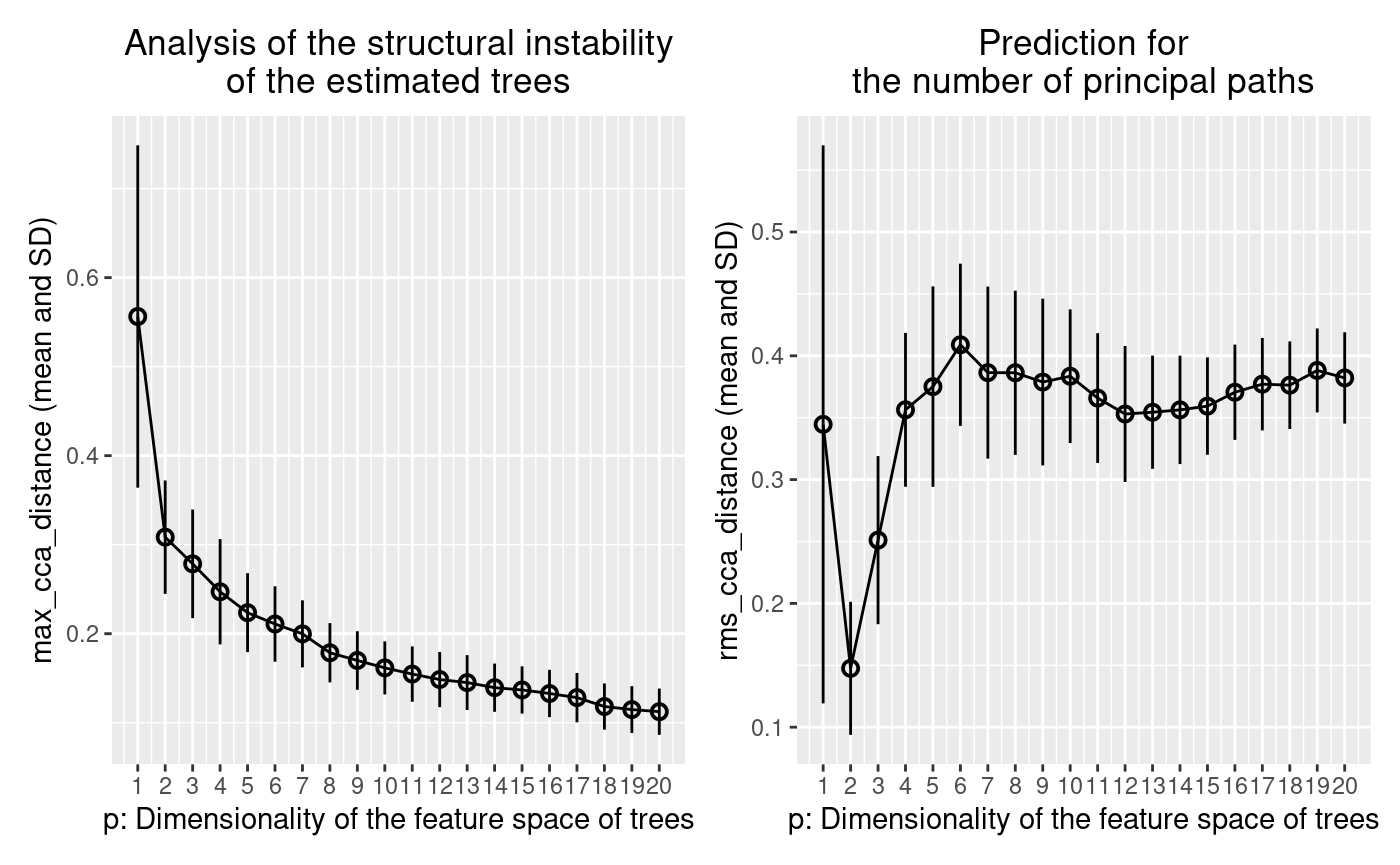
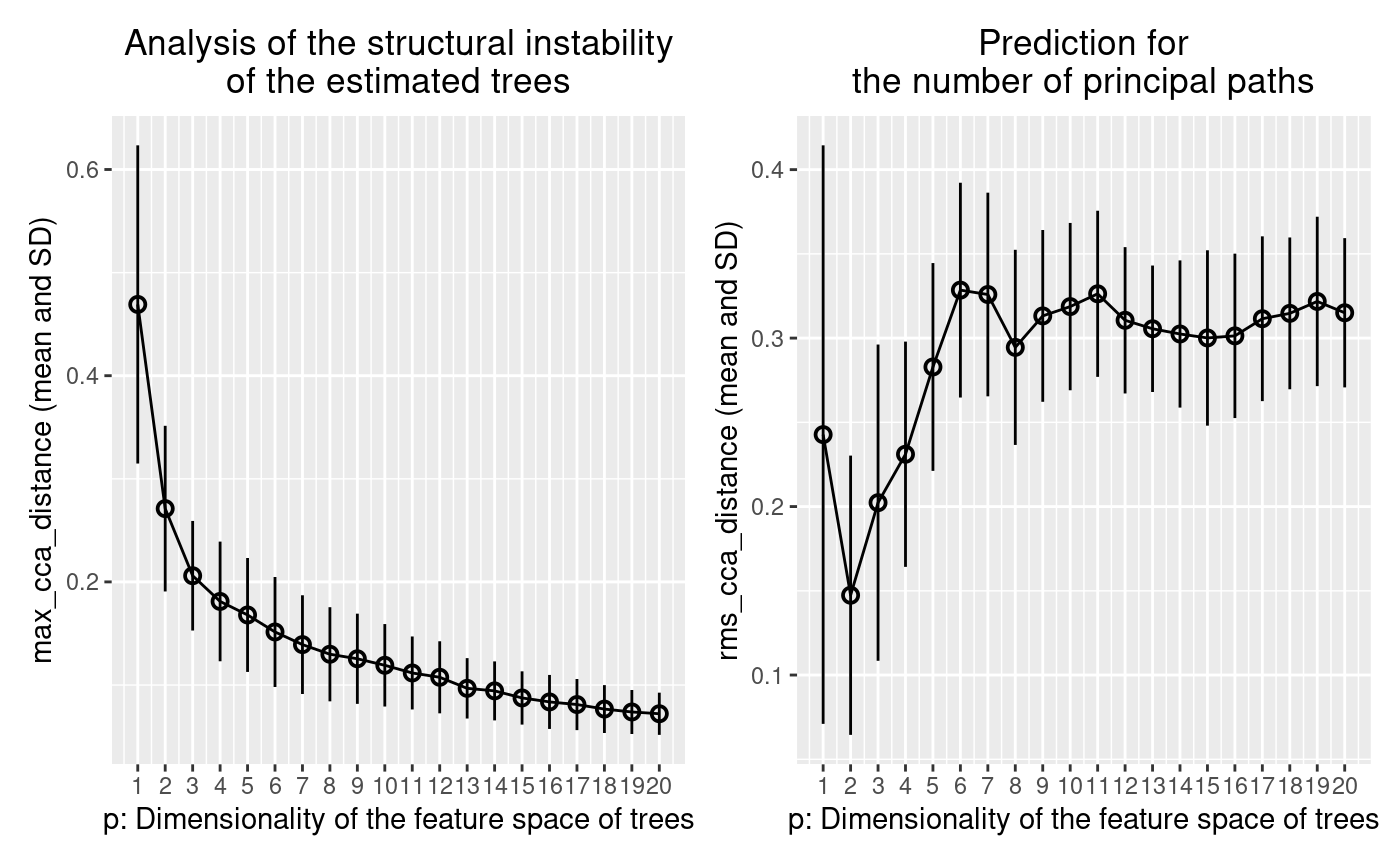
Update documents

diff --git a/docs/1.0.0/articles/working-with-seurat.html b/docs/1.0.0/articles/working-with-seurat.html
@@ -103,11 +103,167 @@
 
     
     
-
+<p>This is a user-friendly manual for biologists who are interested in performing quantitative trajectory inference with the Treefit package. If you are not familiar with the basic workflow of Treefit, then it would be a good idea to look at the introductory tutorial (<code><a href="../articles/treefit.html">vignette("treefit")</a></code>) before using it.</p>
+<div id="why-quantitative-trajectory-inference" class="section level2">
+<h2 class="hasAnchor">
+<a href="#why-quantitative-trajectory-inference" class="anchor"></a>1. Why “quantitative” trajectory inference?</h2>
+<p>Single-cell technologies are expected to help us discover a novel type of cells and revolutionize our understanding of the process of cell differentiation, and trajectory inference is one of the key computational challenges in single-cell transcriptomics. In recent years, many software packages have been developed and widely used to extract an underlying “tree” trajectory from single-cell RNA-seq data.</p>
+<p>However, trajectory inference often suffers from the uncertainty due to the heterogeneity of individual cells and the high levels of technical noise in single-cell experiments. Hence, it was a fatal problem that there was no method to quantitatively assess the reliability of the estimated trajectory and to distinguish distinct cell types in an objective manner so far. Of course, many handy software packages are available for visualizing data and helping perform exploratory data analysis; however, we must stress that different visualization techniques often result in completely different pictures and the interpretation can be quite subjective and thus it is hard to reach a scientific truth solely by this approach. In order to facilitate scientific discoveries from single-cell gene expression data, we need a <em>quantitative</em> methodology.</p>
+<p>This is why we developed Treefit - the first software for performing <em>quantitative</em> trajectory inference. Treefit can be used in conjunction with existing popular software packages such as <a href="https://satijalab.org/seurat/">Seurat</a> and <a href="https://dynverse.org/">dynverse</a>. In this tutorial, we demonstrate how to use Treefit together with Seurat by analyzing the single-cell RNA-seq dataset in <a href="https://www.nature.com/articles/nbt.2859">Trapnell <i>el al.</i>, 2014, Nature Biotechnology</a>.</p>
+</div>
+<div id="trajectory-inference-using-treefit-and-seurat" class="section level2">
+<h2 class="hasAnchor">
+<a href="#trajectory-inference-using-treefit-and-seurat" class="anchor"></a>2. Trajectory inference using Treefit and Seurat</h2>
+<p>As the Treefit package is meant to be used with gene expression data (either raw counts or normalized values) that have been already quality controlled, it is a good idea to use Seurat or other popular toolkits designed for the quality control of single-cell gene expression data (<i>e.g.</i>, filtering cells and normalizing the data) before the Treefit analysis.</p>
+<div id="loading-the-dataset" class="section level3">
+<h3 class="hasAnchor">
+<a href="#loading-the-dataset" class="anchor"></a>2.1. Loading the dataset</h3>
+<p>We analyze the dataset provided in <a href="https://www.nature.com/articles/nbt.2859">Trapnell <i>el al.</i>, 2014, Nature Biotechnology</a>. This dataset was originally acquired for the purpose of studying the process of differentiation of human myoblasts that can be reasonably explained by the linear model (<i>i.e.</i>, non-branching, chain-like structure). However, as the authors discuss in detail in the original article, their trajectory inference software based on a minimum spanning tree (MST) helped detect contamination with another cell lineage which was not related to myogenesis and so revealed that the bifurcation tree model (<i>i.e.</i>, Y-shaped tree structure) fits the data better than the linear model.</p>
+<p>To use this dataset, we download and read the dataset provided in dynverse as follows (see <a href="https://zenodo.org/record/1443566" class="uri">https://zenodo.org/record/1443566</a> for details).</p>
+<div class="sourceCode" id="cb1"><pre class="sourceCode r"><code class="sourceCode r"><a class="sourceLine" id="cb1-1" title="1">trapnell.path &lt;-<span class="st"> "myoblast-differentiation_trapnell.rds"</span></a>
+<a class="sourceLine" id="cb1-2" title="2"><span class="cf">if</span> (<span class="op">!</span><span class="kw"><a href="https://rdrr.io/r/base/files.html">file.exists</a></span>(trapnell.path)) {</a>
+<a class="sourceLine" id="cb1-3" title="3">  <span class="kw"><a href="https://rdrr.io/r/utils/download.file.html">download.file</a></span>(<span class="st">"https://zenodo.org/record/1443566/files/real/gold/myoblast-differentiation_trapnell.rds?download=1"</span>,</a>
+<a class="sourceLine" id="cb1-4" title="4">                trapnell.path,</a>
+<a class="sourceLine" id="cb1-5" title="5">                <span class="dt">mode=</span><span class="st">"wb"</span>)</a>
+<a class="sourceLine" id="cb1-6" title="6">}</a>
+<a class="sourceLine" id="cb1-7" title="7">trapnell.dynverse &lt;-<span class="st"> </span><span class="kw"><a href="https://rdrr.io/r/base/readRDS.html">readRDS</a></span>(trapnell.path)</a></code></pre></div>
+</div>
+<div id="preprocessing-with-seurat" class="section level3">
+<h3 class="hasAnchor">
+<a href="#preprocessing-with-seurat" class="anchor"></a>2.2. Preprocessing with Seurat</h3>
+<p>From now, we demonstrate how to preprocess the above data with Seurat. In order to handle data in Seurat, we first need to create a <code>Seurat</code> object. When creating a <code>Seurat</code> object from dynverse data, we must be aware that the roles of the rows and columns are reversed and therefore we need to transpose the matrix. In dynverse data, the rows and columns correspond to cells and genes, respectively, and vice versa in <code>Seurat</code> objects.</p>
+<p>Here we assume that we wish to perform the following preprocessing.</p>
+<ul>
+<li>Excluding each gene that is only expressed in less than 3 cells</li>
+<li>Removing each cell that only expresses less than 200 genes</li>
+</ul>
+<p>This can be done by setting the designated parameters as follows.</p>
+<div class="sourceCode" id="cb2"><pre class="sourceCode r"><code class="sourceCode r"><a class="sourceLine" id="cb2-1" title="1">trapnell &lt;-<span class="st"> </span>Seurat<span class="op">::</span><span class="kw"><a href="https://rdrr.io/pkg/Seurat/man/CreateSeuratObject.html">CreateSeuratObject</a></span>(<span class="dt">counts=</span><span class="kw"><a href="https://rdrr.io/r/base/t.html">t</a></span>(trapnell.dynverse<span class="op">$</span>count),</a>
+<a class="sourceLine" id="cb2-2" title="2">                                       <span class="dt">min.cells=</span><span class="dv">3</span>,</a>
+<a class="sourceLine" id="cb2-3" title="3">                                       <span class="dt">min.features=</span><span class="dv">200</span>)</a></code></pre></div>
+<pre><code>## Warning: Feature names cannot have underscores ('_'), replacing with dashes
+## ('-')</code></pre>
+<p>The “Feature names cannot have underscores …” warning message can be ignored. It’s caused by difference between dynverse and Seurat. Dynverse uses underscores for gene names but Seurat doesn’t allow it. Seurat replaces underscores with dashes automatically with the warning message.</p>
+</div>
+<div id="visualization-with-seurat" class="section level3">
+<h3 class="hasAnchor">
+<a href="#visualization-with-seurat" class="anchor"></a>2.3. Visualization with Seurat</h3>
+<p>Although pictures may not always describe reality, we usually visualize data before starting detailed analysis. Here we create a scatter plot by principal component analysis (PCA). Below are a few lines of code to do this and the result is shown in Figure 1.</p>
+<div class="sourceCode" id="cb4"><pre class="sourceCode r"><code class="sourceCode r"><a class="sourceLine" id="cb4-1" title="1">trapnell &lt;-<span class="st"> </span>Seurat<span class="op">::</span><span class="kw"><a href="https://rdrr.io/pkg/Seurat/man/FindVariableFeatures.html">FindVariableFeatures</a></span>(trapnell, <span class="dt">verbose=</span><span class="ot">FALSE</span>)</a>
+<a class="sourceLine" id="cb4-2" title="2">trapnell &lt;-<span class="st"> </span>Seurat<span class="op">::</span><span class="kw"><a href="https://rdrr.io/pkg/Seurat/man/ScaleData.html">ScaleData</a></span>(trapnell, <span class="dt">verbose=</span><span class="ot">FALSE</span>)</a>
+<a class="sourceLine" id="cb4-3" title="3">trapnell &lt;-<span class="st"> </span>Seurat<span class="op">::</span><span class="kw"><a href="https://rdrr.io/pkg/Seurat/man/RunPCA.html">RunPCA</a></span>(trapnell, <span class="dt">verbose=</span><span class="ot">FALSE</span>)</a>
+<a class="sourceLine" id="cb4-4" title="4"><span class="kw"><a href="https://rdrr.io/r/graphics/plot.html">plot</a></span>(Seurat<span class="op">::</span><span class="kw"><a href="https://rdrr.io/pkg/Seurat/man/Embeddings.html">Embeddings</a></span>(trapnell))</a></code></pre></div>
+<div class="figure">
+<img src="working-with-seurat_files/figure-html/visualization-1.png" alt="Figure 1. The result of PCA for the myoblast dataset" width="700"><p class="caption">
+Figure 1. The result of PCA for the myoblast dataset
+</p>
+</div>
+<p>It is hard to reach the truth from the PCA result shown in Figure 1. Unlike the tree-like toy data analyzed in the previous tutorial (<code><a href="../articles/treefit.html">vignette("treefit")</a></code>), we cannot easily recognize the underlying tree structure for various reasons (<i>e.g.</i>, high level of noise, contamination with different types of cells, and the inaccuracy of two-dimensional visualization of high dimensional data).</p>
+<p>Figure 2b in <a href="https://www.nature.com/articles/nbt.2859">Trapnell <i>el al.</i>, 2014, Nature Biotechnology</a> shows that this dataset contains three distinct types of cells (<i>i.e.</i>, proliferating cells, differentiating myoblasts, and contaminating interstitial mesenchymal cells), which led the authors to adopt a Y-shaped tree model (<i>i.e.</i>, a star tree with three arms) to explain the data. However, it is difficult to quantify the reliability of this tree model and to confidently predict that the best-fit tree consists of three principal paths.</p>
+</div>
+</div>
+<div id="quantitative-trajectory-inference-with-treefit" class="section level2">
+<h2 class="hasAnchor">
+<a href="#quantitative-trajectory-inference-with-treefit" class="anchor"></a>3. Quantitative trajectory inference with Treefit</h2>
+<div id="performing-the-treefit-analysis" class="section level3">
+<h3 class="hasAnchor">
+<a href="#performing-the-treefit-analysis" class="anchor"></a>3.1. Performing the Treefit analysis</h3>
+<p>Let us use Treefit in order to estimate the tree-likeness of the preprocessed myoblast data (which contain 290 cells) and to predict the number of principal paths in the best-fit tree. The workflow is the same as the toy data analysis described in the previous tutorial (<code><a href="../articles/treefit.html">vignette("treefit")</a></code>).</p>
+<div class="sourceCode" id="cb5"><pre class="sourceCode r"><code class="sourceCode r"><a class="sourceLine" id="cb5-1" title="1">trapnell.fit &lt;-<span class="st"> </span>treefit<span class="op">::</span><span class="kw"><a href="https://rdrr.io/pkg/treefit/man/treefit.html">treefit</a></span>(trapnell)</a>
+<a class="sourceLine" id="cb5-2" title="2">trapnell.fit</a></code></pre></div>
+<pre><code>## $name
+## [1] "trapnell"
+## 
+## $max_cca_distance
+##     p      mean standard_deviation
+## 1   1 0.6303459         0.12773201
+## 2   2 0.4017539         0.07430735
+## 3   3 0.3255355         0.05479342
+## 4   4 0.2699334         0.04228203
+## 5   5 0.2500198         0.04335692
+## 6   6 0.2348225         0.03919659
+## 7   7 0.2269746         0.03631043
+## 8   8 0.2185274         0.03309986
+## 9   9 0.2096228         0.03344765
+## 10 10 0.2022596         0.03228294
+## 11 11 0.1928535         0.03540076
+## 12 12 0.1878315         0.03622790
+## 13 13 0.1811885         0.03879294
+## 14 14 0.1725552         0.03903983
+## 15 15 0.1501188         0.03806641
+## 16 16 0.1423743         0.03696181
+## 17 17 0.1332141         0.03425474
+## 18 18 0.1301240         0.03567304
+## 19 19 0.1261766         0.03589544
+## 20 20 0.1229404         0.03627929
+## 
+## $rms_cca_distance
+##     p      mean standard_deviation
+## 1   1 0.4128356         0.16762578
+## 2   2 0.2743234         0.07251555
+## 3   3 0.3849682         0.07709205
+## 4   4 0.4149403         0.08252252
+## 5   5 0.4310958         0.06496787
+## 6   6 0.3586742         0.07095145
+## 7   7 0.3380313         0.06377325
+## 8   8 0.3739542         0.05738832
+## 9   9 0.3735670         0.06623482
+## 10 10 0.3657720         0.05637900
+## 11 11 0.3632138         0.05275275
+## 12 12 0.3826324         0.04703776
+## 13 13 0.3896167         0.04848040
+## 14 14 0.3893737         0.04267768
+## 15 15 0.3940595         0.04583882
+## 16 16 0.3916372         0.04443135
+## 17 17 0.3991275         0.03560390
+## 18 18 0.4121476         0.03607119
+## 19 19 0.4139794         0.04205234
+## 20 20 0.4216135         0.03807688
+## 
+## $n_principal_paths_candidates
+## [1]  3  8 12 15 17
+## 
+## attr(,"class")
+## [1] "treefit"</code></pre>
+<div class="sourceCode" id="cb7"><pre class="sourceCode r"><code class="sourceCode r"><a class="sourceLine" id="cb7-1" title="1"><span class="kw"><a href="https://rdrr.io/r/graphics/plot.html">plot</a></span>(trapnell.fit)</a></code></pre></div>
+<div class="figure">
+<img src="working-with-seurat_files/figure-html/plot-1.png" alt="Figure 2. Summary of the Treefit analysis results" width="700"><p class="caption">
+Figure 2. Summary of the Treefit analysis results
+</p>
+</div>
+</div>
+<div id="interpreting-the-results" class="section level3">
+<h3 class="hasAnchor">
+<a href="#interpreting-the-results" class="anchor"></a>3.2. Interpreting the results</h3>
+<p>As explained in the previous tutorial (<code><a href="../articles/treefit.html">vignette("treefit")</a></code>), the two Grassmann distances <code>$max_cca_distance</code> and <code>$rms_cca_distance</code> play an essential role in the Treefit analysis. The goal of the first analysis using <code>$max_cca_distance</code> is to measure the goodness-of-fit between data and data-derived tree trajectories, and this helps biologists make a mathematical and statistical evidence-based quantitative discussion. The other analysis with <code>$rms_cca_distance</code> aims to predict the number of principal paths in the best-fit tree trajectory, and the result of this analysis can be helpful to discover novel cell types or make sure whether or not there are contaminating cell types.</p>
+<p>If we compare the mean values of <code>$max_cca_distance</code> shown in the left panel of Figure 2 with the previous results (<code><a href="../articles/treefit.html">vignette("treefit")</a></code>), we can see that the tree-likeness of the myoblast dataset is more like the noisy tree-like data with the <code>fatness</code> <code>0.8</code> rather than the tree-like data with the <code>fatness</code> <code>0.1</code>. This estimate is reasonable in light of the fact that the myoblast dataset in <a href="https://www.nature.com/articles/nbt.2859">Trapnell <i>el al.</i>, 2014, Nature Biotechnology</a> contains some contaminating cell types that are not related to myogenesis.</p>
+<p>Turning to the right panel of Figure 2, we see that <code>$rms_cca_distance</code> attains the local minimum at <i>p</i>=2. Therefore, we can deduce that the best-fit tree trajectory for the myoblast data consists of <i>p</i>+1=3 principal paths. <code>$n_principal_paths_candidates[1]</code> also tells us the number principal paths is 3. Recalling the discussion in <a href="https://www.nature.com/articles/nbt.2859">Trapnell <i>el al.</i>, 2014, Nature Biotechnology</a> (<i>i.e.</i>, the cells in the dataset can be classified into the following three groups: proliferating cells; differentiating myoblasts; and contaminating interstitial mesenchymal cells), we thus see that Treefit has correctly predicted the number of distinct principal paths forming the best-fit tree trajectory for this dataset.</p>
+</div>
+</div>
   </div>
 
   <div class="col-md-3 hidden-xs hidden-sm" id="sidebar">
 
+        <div id="tocnav">
+      <h2 class="hasAnchor">
+<a href="#tocnav" class="anchor"></a>Contents</h2>
+      <ul class="nav nav-pills nav-stacked">
+<li><a href="#why-quantitative-trajectory-inference">1. Why “quantitative” trajectory inference?</a></li>
+      <li>
+<a href="#trajectory-inference-using-treefit-and-seurat">2. Trajectory inference using Treefit and Seurat</a><ul class="nav nav-pills nav-stacked">
+<li><a href="#loading-the-dataset">2.1. Loading the dataset</a></li>
+      <li><a href="#preprocessing-with-seurat">2.2. Preprocessing with Seurat</a></li>
+      <li><a href="#visualization-with-seurat">2.3. Visualization with Seurat</a></li>
+      </ul>
+</li>
+      <li>
+<a href="#quantitative-trajectory-inference-with-treefit">3. Quantitative trajectory inference with Treefit</a><ul class="nav nav-pills nav-stacked">
+<li><a href="#performing-the-treefit-analysis">3.1. Performing the Treefit analysis</a></li>
+      <li><a href="#interpreting-the-results">3.2. Interpreting the results</a></li>
+      </ul>
+</li>
+      </ul>
+</div>
       </div>
 
 </div>

diff --git a/docs/1.0.0/articles/treefit.html b/docs/1.0.0/articles/treefit.html
@@ -154,52 +154,52 @@ Figure 2. A scatter plot of noisy toy data generated by Treefit
 ## 
 ## $max_cca_distance
 ##     p       mean standard_deviation
-## 1   1 0.55310272        0.266732277
-## 2   2 0.05988371        0.012647359
-## 3   3 0.05340750        0.008074329
-## 4   4 0.04804800        0.006003423
-## 5   5 0.04610268        0.006216889
-## 6   6 0.04384587        0.005553575
-## 7   7 0.04190644        0.005384856
-## 8   8 0.04068326        0.005648034
-## 9   9 0.03879281        0.006198876
-## 10 10 0.03718435        0.006207704
-## 11 11 0.03634225        0.005996107
-## 12 12 0.03491264        0.005612555
-## 13 13 0.03415235        0.005746931
-## 14 14 0.03330077        0.005848905
-## 15 15 0.03277826        0.005852345
-## 16 16 0.03225203        0.005706239
-## 17 17 0.03049023        0.005288260
-## 18 18 0.02960187        0.005425424
-## 19 19 0.02910825        0.005492155
-## 20 20 0.02804071        0.005362880
+## 1   1 0.22207774        0.132862158
+## 2   2 0.05697850        0.010953653
+## 3   3 0.04738462        0.007957983
+## 4   4 0.04556243        0.007232552
+## 5   5 0.04378450        0.007089184
+## 6   6 0.04160476        0.006567665
+## 7   7 0.04000499        0.006366002
+## 8   8 0.03903339        0.006118847
+## 9   9 0.03784551        0.005884943
+## 10 10 0.03656626        0.005167894
+## 11 11 0.03535950        0.004591713
+## 12 12 0.03478244        0.004423653
+## 13 13 0.03413189        0.004124121
+## 14 14 0.03353995        0.004282381
+## 15 15 0.03250053        0.004323128
+## 16 16 0.03155152        0.003862960
+## 17 17 0.03081650        0.004078069
+## 18 18 0.03022886        0.004042348
+## 19 19 0.02951356        0.003714168
+## 20 20 0.02878805        0.003819793
 ## 
 ## $rms_cca_distance
 ##     p        mean standard_deviation
-## 1   1 0.373511426        0.285142247
-## 2   2 0.005976531        0.002333115
-## 3   3 0.010172868        0.004218466
-## 4   4 0.076636112        0.071194263
-## 5   5 0.020915705        0.004943098
-## 6   6 0.028337849        0.005959833
-## 7   7 0.060560734        0.025448665
-## 8   8 0.058762260        0.019501296
-## 9   9 0.069261003        0.019092097
-## 10 10 0.103742904        0.023601754
-## 11 11 0.088784540        0.021484689
-## 12 12 0.103969141        0.017971801
-## 13 13 0.128766695        0.016469853
-## 14 14 0.151491405        0.013933469
-## 15 15 0.135270337        0.019593227
-## 16 16 0.151808700        0.025083783
-## 17 17 0.166179468        0.025079459
-## 18 18 0.177227676        0.022674779
-## 19 19 0.173962464        0.021506354
-## 20 20 0.193368051        0.025050694
+## 1   1 0.066088256        0.077547827
+## 2   2 0.004920187        0.001889850
+## 3   3 0.008351593        0.002838944
+## 4   4 0.028980040        0.021295152
+## 5   5 0.024936437        0.007397961
+## 6   6 0.042898721        0.009581354
+## 7   7 0.068123332        0.021065050
+## 8   8 0.075547500        0.021376118
+## 9   9 0.065524849        0.017133722
+## 10 10 0.066702490        0.017372297
+## 11 11 0.089642823        0.026422857
+## 12 12 0.087491744        0.019813682
+## 13 13 0.113117000        0.016656673
+## 14 14 0.126741171        0.017928338
+## 15 15 0.143842413        0.019742957
+## 16 16 0.156566858        0.016792842
+## 17 17 0.153086987        0.019996273
+## 18 18 0.153545025        0.021279478
+## 19 19 0.156758730        0.022667627
+## 20 20 0.169489839        0.025778350
 ## 
 ## $n_principal_paths_candidates
-## [1]  3  6  9 12 16 20
+## [1]  3  6 10 13 18
 ## 
 ## attr(,"class")
 ## [1] "treefit"</code></pre>
@@ -225,53 +225,53 @@ Figure 3. The output for the tree-like data shown in Figure 1
 ## [1] "less-tree-like"
 ## 
 ## $max_cca_distance
-##     p      mean standard_deviation
-## 1   1 0.5563240         0.19228627
-## 2   2 0.3084357         0.06371125
-## 3   3 0.2784752         0.06096869
-## 4   4 0.2470938         0.05914629
-## 5   5 0.2236034         0.04434306
-## 6   6 0.2108825         0.04239116
-## 7   7 0.1998028         0.03768040
-## 8   8 0.1785585         0.03327545
-## 9   9 0.1699176         0.03291868
-## 10 10 0.1615951         0.02974509
-## 11 11 0.1546593         0.03110130
-## 12 12 0.1485091         0.03101580
-## 13 13 0.1450974         0.03081001
-## 14 14 0.1393775         0.02712194
-## 15 15 0.1367999         0.02656104
-## 16 16 0.1328124         0.02663293
-## 17 17 0.1282117         0.02767040
-## 18 18 0.1181785         0.02600056
-## 19 19 0.1147496         0.02626652
-## 20 20 0.1123962         0.02601772
+##     p       mean standard_deviation
+## 1   1 0.46914187         0.15432025
+## 2   2 0.27110510         0.08033996
+## 3   3 0.20599623         0.05314288
+## 4   4 0.18107128         0.05800900
+## 5   5 0.16793898         0.05525089
+## 6   6 0.15145031         0.05334582
+## 7   7 0.13919294         0.04788637
+## 8   8 0.12984520         0.04564065
+## 9   9 0.12545005         0.04372439
+## 10 10 0.11912558         0.03996984
+## 11 11 0.11167550         0.03539982
+## 12 12 0.10750464         0.03496488
+## 13 13 0.09677703         0.02928181
+## 14 14 0.09431659         0.02860111
+## 15 15 0.08745945         0.02582467
+## 16 16 0.08360252         0.02620819
+## 17 17 0.08106870         0.02479832
+## 18 18 0.07665439         0.02322454
+## 19 19 0.07385218         0.02132834
+## 20 20 0.07213136         0.02045777
 ## 
 ## $rms_cca_distance
 ##     p      mean standard_deviation
-## 1   1 0.3446217         0.22538156
-## 2   2 0.1475451         0.05372601
-## 3   3 0.2511036         0.06790303
-## 4   4 0.3563781         0.06214006
-## 5   5 0.3750847         0.08096734
-## 6   6 0.4088919         0.06551573
-## 7   7 0.3863854         0.06947823
-## 8   8 0.3862890         0.06630588
-## 9   9 0.3787913         0.06735764
-## 10 10 0.3834823         0.05405087
-## 11 11 0.3658525         0.05242069
-## 12 12 0.3529848         0.05494357
-## 13 13 0.3544112         0.04576166
-## 14 14 0.3563127         0.04377996
-## 15 15 0.3593466         0.03934657
-## 16 16 0.3705468         0.03847612
-## 17 17 0.3770784         0.03735657
-## 18 18 0.3762581         0.03536676
-## 19 19 0.3881764         0.03387535
-## 20 20 0.3821136         0.03689425
+## 1   1 0.2427181         0.17171348
+## 2   2 0.1473748         0.08286906
+## 3   3 0.2023159         0.09387195
+## 4   4 0.2310660         0.06686906
+## 5   5 0.2828736         0.06168996
+## 6   6 0.3284896         0.06375435
+## 7   7 0.3258731         0.06043883
+## 8   8 0.2945015         0.05792336
+## 9   9 0.3131782         0.05099725
+## 10 10 0.3187131         0.04965797
+## 11 11 0.3262961         0.04929783
+## 12 12 0.3105639         0.04343384
+## 13 13 0.3055427         0.03752006
+## 14 14 0.3024462         0.04368209
+## 15 15 0.3000995         0.05205513
+## 16 16 0.3013300         0.04879938
+## 17 17 0.3114987         0.04892690
+## 18 18 0.3146907         0.04504537
+## 19 19 0.3217625         0.05026691
+## 20 20 0.3150403         0.04428657
 ## 
 ## $n_principal_paths_candidates
-## [1]  3 10 13 19
+## [1]  3  9 16
 ## 
 ## attr(,"class")
 ## [1] "treefit"</code></pre>
